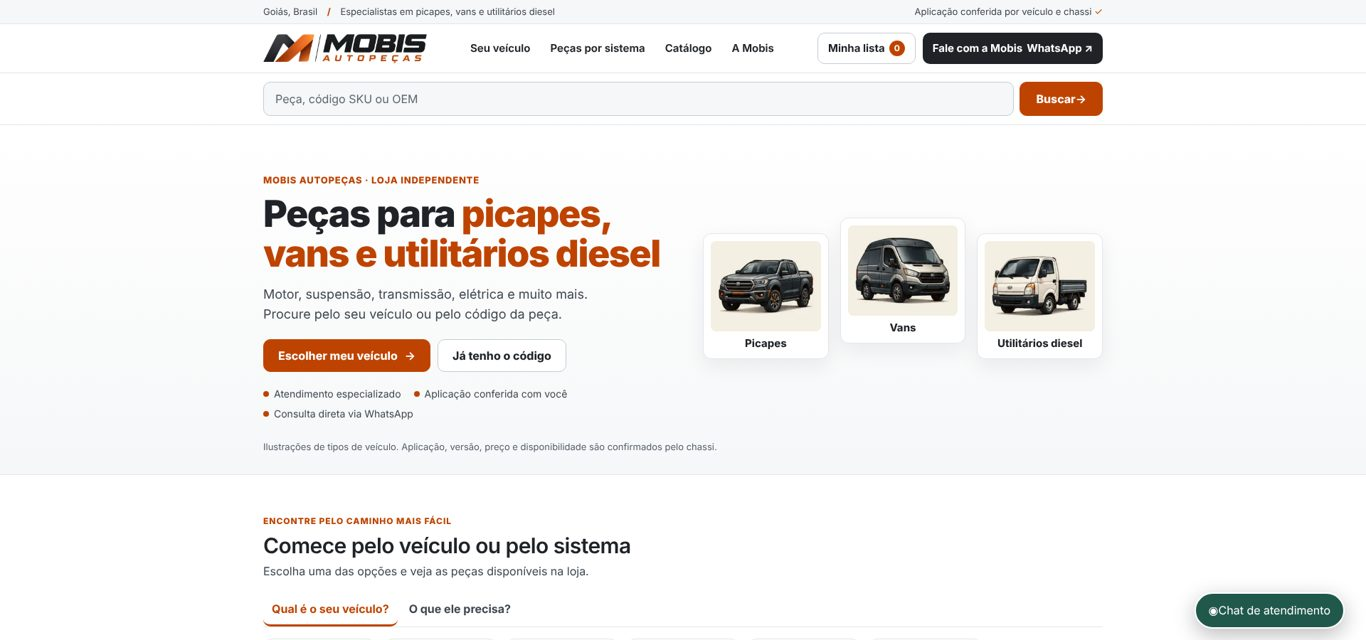
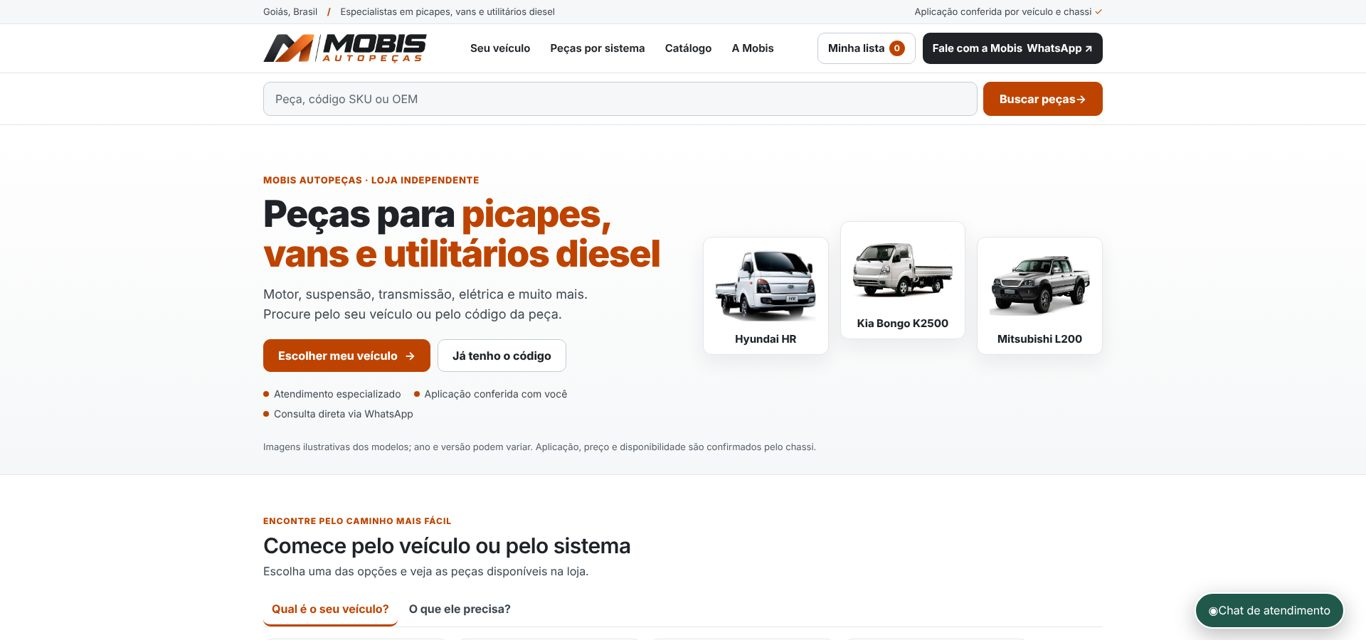
fix(mobis): imagem do veículo correto por modelo (HR, Bongo, L200), sem 3D repetido
Pedido do proprietário na revisão do PR: o HR e o Bongo usavam a mesma ilustração 3D.
- Banner e cartões passam a usar a imagem de cada modelo, recortada dos exemplos enviados
  pelo proprietário em 16/11/2026 (painel/src/assets/veiculos-mobis, com README de origem).
- Sprinter e Daily saem dos atalhos: não há imagem do veículo correto nem aplicação
  homologada; continuam atendidos por "Outros modelos".
- Testes garantem que nenhuma imagem de veículo se repete entre modelos.

Claude-Session: https://claude.ai/code/session_01YDBbavup1vrkoabZwoYWHG

Changed region(s): [[0.5227, 0.3438, 0.7994, 0.5625], [0.1845, 0.6875, 0.5842, 0.7188], [0.7072, 0.125, 0.7994, 0.1875]]

diff --git a/painel/src/paginas/LojaMobisNova.tsx b/painel/src/paginas/LojaMobisNova.tsx
@@ -1,13 +1,16 @@
 import { useEffect, useMemo, useState, type FormEvent } from "react";
 import { EmpresaMobis } from "../componentes/EmpresaMobis.tsx";
 import { SUPABASE_URL, SUPABASE_CHAVE_PUBLICAVEL } from "../config.ts";
-import { IconePeca, IconeVeiculo } from "../componentes/IconePeca.tsx";
+import { IconePeca } from "../componentes/IconePeca.tsx";
 import { RodapeLoja, type PoliticasLojaPublicas } from "../componentes/RodapeLoja.tsx";
 import { ChatClienteLoja } from "../componentes/ChatClienteLoja.tsx";
 import { linkWhatsAppPublico } from "../lib/publicoLoja.ts";
 import { modeloDoAtalho, podeExibirProdutoTeste } from "../lib/mobisVitrine.ts";
 import { ProdutoTesteMobis } from "../componentes/ProdutoTesteMobis.tsx";
 import { BannerMobis } from "../componentes/BannerMobis.tsx";
+import fotoHR from "../assets/veiculos-mobis/hyundai-hr.webp";
+import fotoBongo from "../assets/veiculos-mobis/kia-bongo-k2500.webp";
+import fotoL200 from "../assets/veiculos-mobis/mitsubishi-l200.webp";
 import logoMobis from "../assets/marcas/mobis-oficial-fundo-claro.png";
 import "./loja-mobis-nova.css";
 import "./loja-mobis-branco.css";
@@ -31,14 +34,13 @@ type Resposta = {
 };
 type Filtros={q:string;modelo:string;motor:string;ano:string;categoria:string;pagina:number};
 const VAZIO:Filtros={q:"",modelo:"",motor:"",ano:"",categoria:"",pagina:1};
-/** Atalhos por veículo. A ilustração 3D aprovada indica só o tipo (picape, van, utilitário),
- * nunca o modelo, a geração ou a aplicação. */
+/** Atalhos por veículo. Cada modelo usa a imagem do veículo correto, enviada pelo proprietário;
+ * a imagem identifica o modelo, não o ano, a versão nem a aplicação. Modelo sem imagem própria
+ * não entra aqui (fica em "Outros modelos"): nunca repetir a imagem de um veículo em outro. */
 const VEICULOS=[
-  {nome:"Hyundai HR",valor:"HR",icone:"caminhao"},
-  {nome:"Kia Bongo K2500",valor:"Bongo",icone:"caminhao"},
-  {nome:"Mitsubishi L200",valor:"L200",icone:"picape"},
-  {nome:"Mercedes Sprinter",valor:"Sprinter",icone:"furgao"},
-  {nome:"Iveco Daily",valor:"Daily",icone:"furgao"},
+  {nome:"Hyundai HR",valor:"HR",foto:fotoHR},
+  {nome:"Kia Bongo K2500",valor:"Bongo",foto:fotoBongo},
+  {nome:"Mitsubishi L200",valor:"L200",foto:fotoL200},
 ];
 /** Modelos sempre oferecidos no filtro; os demais só entram quando há aplicação aprovada. */
 const MODELOS_FILTRO=["HR","Bongo","L200"];
@@ -190,6 +192,7 @@ export function LojaMobisNova({slug}:{slug:string}) {
     {dados?.loja.ambiente==="teste"&&<div className="m2-aviso-teste" role="status"><strong>LOJA TESTE</strong> · Catálogo em preparação. Consulte peças e aplicações pelo WhatsApp. Preços e disponibilidade a confirmar; não concluímos pedidos nem recebemos pagamentos neste site.</div>}
     <main>
       <BannerMobis
+        veiculos={VEICULOS}
         abrirEscolha={()=>{setExplorar("veiculo");para("m2-explorar");}}
         buscarCodigo={()=>{setAbaBusca("referencia");para("m2-busca");document.getElementById("m2-pesquisar")?.focus({preventScroll:true});}}
         extra={produtoTeste&&<button type="button" className="m4-botao m4-botao-claro" onClick={()=>para("m2-produto-teste")}>Ver produto de teste →</button>}
@@ -204,16 +207,16 @@ export function LojaMobisNova({slug}:{slug:string}) {
         {explorar==="veiculo"&&<div id="m2-veiculos" role="tabpanel"><div className="m2-veiculo-grade">
           {VEICULOS.map(v=>{const tem=Boolean(modeloDoAtalho(v.valor,opcoes));return <button className="m2-veiculo" key={v.nome}
             onClick={()=>{if(tem){escolherVeiculo(v.valor)}else{setConsultaModelo(v.nome);para("m2-atendimento")}}}>
-            <div><IconeVeiculo tipo={v.icone} largura={157} titulo=""/></div>
+            <div><img className="m4-foto-veiculo" src={v.foto} width={480} height={360} alt="" loading="lazy" decoding="async"/></div>
             <strong>{v.nome}</strong>
             <small>{tem?"Peças cadastradas por aplicação":"Consulte a aplicação com nossa equipe"}</small>
             <span>{tem?"Encontrar peças":"Consultar modelo"} <b aria-hidden="true">→</b></span>
           </button>})}
           <button className="m2-veiculo" onClick={()=>{setConsultaModelo("outros modelos");para("m2-atendimento")}}>
-            <div><IconeVeiculo tipo="picape" largura={157} titulo=""/></div><strong>Outros modelos</strong>
+            <div className="m4-outros" aria-hidden="true">+</div><strong>Outros modelos</strong>
             <small>Consulte com chassi, ano e motor</small><span>Falar com a equipe <b aria-hidden="true">→</b></span>
           </button>
-        </div><small className="m2-legenda">Ilustrações de tipos de veículo, não do modelo. Confirme a aplicação antes de comprar.</small></div>}
+        </div><small className="m2-legenda">Imagens ilustrativas dos modelos; ano e versão podem variar. Confirme a aplicação antes de comprar.</small></div>}
         {explorar==="sistema"&&<div id="m2-sistemas" role="tabpanel"><div className="m2-sistema-grade">{SISTEMAS.map(s=><button key={s.nome} onClick={()=>escolherSistema(s.busca)}>
           <IconePeca nome={s.id} tamanho={90}/><span>{s.nome}</span><i>↗</i></button>)}</div>
         <small className="m2-legenda">Ilustrações das categorias. Consulte aplicação e disponibilidade antes de comprar.</small></div>}

diff --git a/painel/src/paginas/loja-mobis-clara.css b/painel/src/paginas/loja-mobis-clara.css
@@ -1,6 +1,7 @@
 /* MOBIS AUTOPEÇAS | modelo claro v4 da loja pública.
    Última camada da vitrine: superfícies brancas, texto grafite e um único acento,
    o laranja do "M" do logotipo oficial (o arquivo do logo não é alterado).
+   Veículos: imagem do modelo correto em cada cartão; nunca a mesma imagem em dois modelos.
    Layout fluido: as mesmas regras servem do smartphone ao monitor largo; os poucos
    @media só reorganizam colunas. Escopo: apenas .mobis-v2.m4 (a página da loja). */
 .mobis-v2.m4{
@@ -65,7 +66,7 @@
 .mobis-v2.m4 .m4-banner-arte{display:grid;grid-template-columns:repeat(3,minmax(0,1fr));gap:clamp(8px,1.6vw,16px);min-width:0;align-items:end}
 .mobis-v2.m4 .m4-banner-arte figure{margin:0;min-width:0;background:#fff;border:1px solid var(--m4-linha);border-radius:var(--m4-raio);padding:clamp(6px,1vw,10px);box-shadow:0 10px 28px #1f232712;text-align:center}
 .mobis-v2.m4 .m4-banner-arte figure:nth-child(2){transform:translateY(clamp(-22px,-2.2vw,-10px))}
-.mobis-v2.m4 .m4-banner-arte .ico-veiculo{display:block;width:100%;height:auto;aspect-ratio:1/.82;object-fit:cover;border-radius:8px}
+.mobis-v2.m4 .m4-foto-veiculo{display:block;width:100%;height:auto;aspect-ratio:4/3;object-fit:contain;background:#fff;border-radius:8px}
 .mobis-v2.m4 .m4-banner-arte figcaption{font-size:clamp(.8125rem,.75rem + .3vw,.9375rem);font-weight:750;color:var(--m4-tinta);padding:8px 2px 2px;line-height:1.2}
 .mobis-v2.m4 .m4-banner-nota{font-size:.8125rem;color:#56606a;margin:clamp(16px,2.5vw,26px) auto 0}
 
@@ -89,11 +90,11 @@
 .mobis-v2.m4 .m2-empresa-abas button[aria-selected="true"]{color:var(--m4-acento);border-bottom-color:var(--m4-acento)}
 
 /* Veículos: cartões brancos compactos, grade automática */
-.mobis-v2.m4 .m2-veiculo-grade{display:grid;grid-template-columns:repeat(auto-fill,minmax(min(100%,150px),1fr));gap:12px}
+.mobis-v2.m4 .m2-veiculo-grade{display:grid;grid-template-columns:repeat(auto-fit,minmax(min(100%,150px),260px));gap:12px}
 .mobis-v2.m4 .m2-veiculo{background:#fff;background-image:none;border:1px solid var(--m4-linha);border-radius:var(--m4-raio);padding:10px;min-height:0;color:var(--m4-tinta);box-shadow:none}
 .mobis-v2.m4 .m2-veiculo:hover{background:#fff;border-color:var(--m4-acento);transform:translateY(-2px)}
 .mobis-v2.m4 .m2-veiculo>div{background:none;min-height:0;margin-bottom:10px;border-radius:8px}
-.mobis-v2.m4 .m2-veiculo .ico-veiculo{width:100%;max-width:none;height:auto;aspect-ratio:1/.62;object-fit:cover;border-radius:8px}
+.mobis-v2.m4 .m2-veiculo>.m4-outros{aspect-ratio:4/3;display:grid;place-items:center;background:var(--m4-gelo);border:1px dashed #c5ccd3;color:var(--m4-acento);font-size:2.5rem;font-weight:300;line-height:1}
 .mobis-v2.m4 .m2-veiculo strong{font-size:1rem;line-height:1.25}
 .mobis-v2.m4 .m2-veiculo small{font-size:.8125rem;color:var(--m4-texto);margin:4px 0 10px}
 .mobis-v2.m4 .m2-veiculo>span{border-top:1px solid var(--m4-linha);padding-top:8px;font-size:.875rem;color:var(--m4-acento);font-weight:750}

diff --git a/painel/src/componentes/BannerMobis.tsx b/painel/src/componentes/BannerMobis.tsx
@@ -1,17 +1,12 @@
 import type { ReactNode } from "react";
-import { IconeVeiculo } from "./IconePeca.tsx";
 
 /** Banner principal da loja Mobis (modelo claro v4).
  * Um único bloco fluido: mesma marcação do smartphone ao monitor largo, sem versões separadas.
- * Usa só as ilustrações 3D aprovadas de tipos de veículo: não representa modelo, ano nem aplicação.
+ * Mostra a imagem do veículo correto de cada modelo (recebidas da página); a imagem identifica
+ * o modelo, não o ano, a versão nem a aplicação da peça.
  */
-const TIPOS = [
-  { tipo: "picape", rotulo: "Picapes" },
-  { tipo: "furgao", rotulo: "Vans" },
-  { tipo: "caminhao", rotulo: "Utilitários diesel" },
-] as const;
-
-export function BannerMobis({ abrirEscolha, buscarCodigo, extra }: {
+export function BannerMobis({ veiculos, abrirEscolha, buscarCodigo, extra }: {
+  veiculos: readonly { nome: string; foto: string }[];
   abrirEscolha: () => void;
   buscarCodigo: () => void;
   /** Ação opcional do ambiente de teste (ex.: atalho do produto de teste). */
@@ -35,16 +30,16 @@ export function BannerMobis({ abrirEscolha, buscarCodigo, extra }: {
             <li>Consulta direta via WhatsApp</li>
           </ul>
         </div>
-        <div className="m4-banner-arte" aria-label="Tipos de veículo atendidos">
-          {TIPOS.map(t => (
-            <figure key={t.tipo}>
-              <IconeVeiculo tipo={t.tipo} largura={240} titulo="" />
-              <figcaption>{t.rotulo}</figcaption>
+        <div className="m4-banner-arte" aria-label="Modelos atendidos">
+          {veiculos.map((v, i) => (
+            <figure key={v.nome}>
+              <img className="m4-foto-veiculo" src={v.foto} width={480} height={360} alt="" loading={i === 0 ? "eager" : "lazy"} decoding="async" />
+              <figcaption>{v.nome}</figcaption>
             </figure>
           ))}
         </div>
       </div>
-      <p className="m2-wrap m4-banner-nota">Ilustrações de tipos de veículo. Aplicação, versão, preço e disponibilidade são confirmados pelo chassi.</p>
+      <p className="m2-wrap m4-banner-nota">Imagens ilustrativas dos modelos; ano e versão podem variar. Aplicação, preço e disponibilidade são confirmados pelo chassi.</p>
     </section>
   );
 }

diff --git a/painel/src/assets/veiculos-mobis/README.md b/painel/src/assets/veiculos-mobis/README.md
@@ -1,0 +1,16 @@
+# Imagens de veículos da loja Mobis
+
+Recortes das imagens enviadas pelo proprietário da Mobis em 16/11/2026 como exemplo do
+veículo correto de cada modelo. Fundo branco, proporção 4:3, sem redimensionar para cima.
+
+| Arquivo | Modelo |
+|---|---|
+| `hyundai-hr.webp` | Hyundai HR |
+| `kia-bongo-k2500.webp` | Kia Bongo K2500 |
+| `mitsubishi-l200.webp` | Mitsubishi L200 |
+
+- Uso ilustrativo: a imagem identifica o modelo, não o ano, a versão nem a aplicação da peça.
+- Origem e direito de uso das fotografias: **a confirmar pelo proprietário** (aparentam ser
+  imagens de divulgação das montadoras).
+- Um cartão de modelo só recebe imagem quando há fotografia do veículo correto. Nunca repetir
+  a imagem de um modelo em outro.
